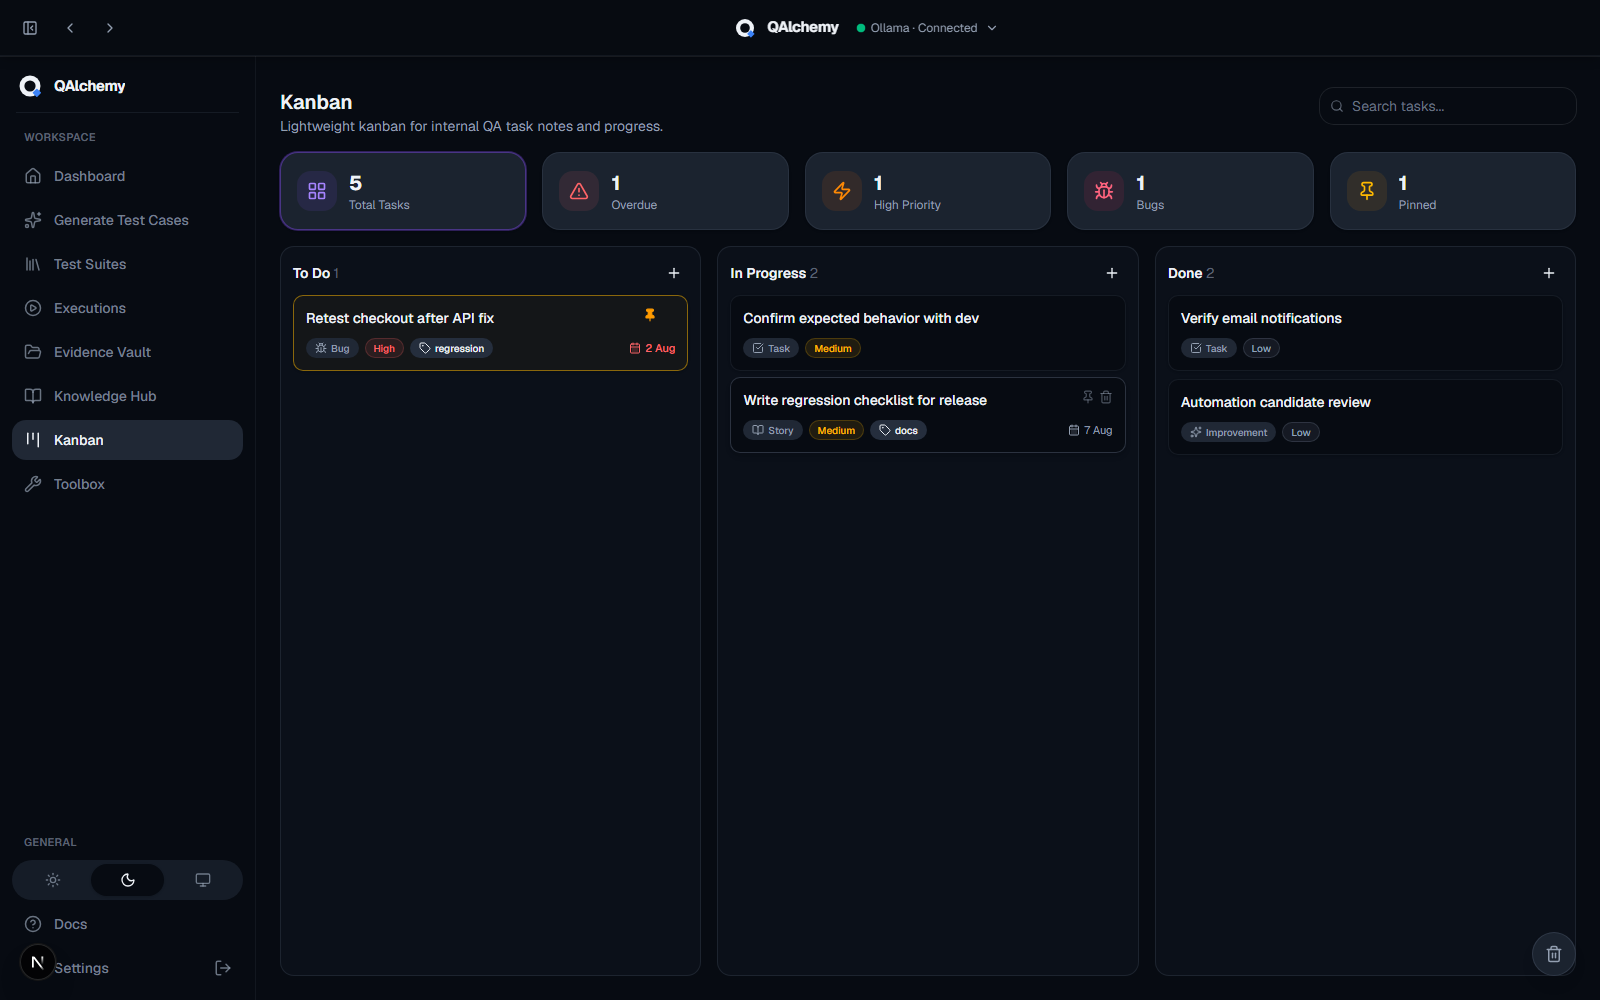
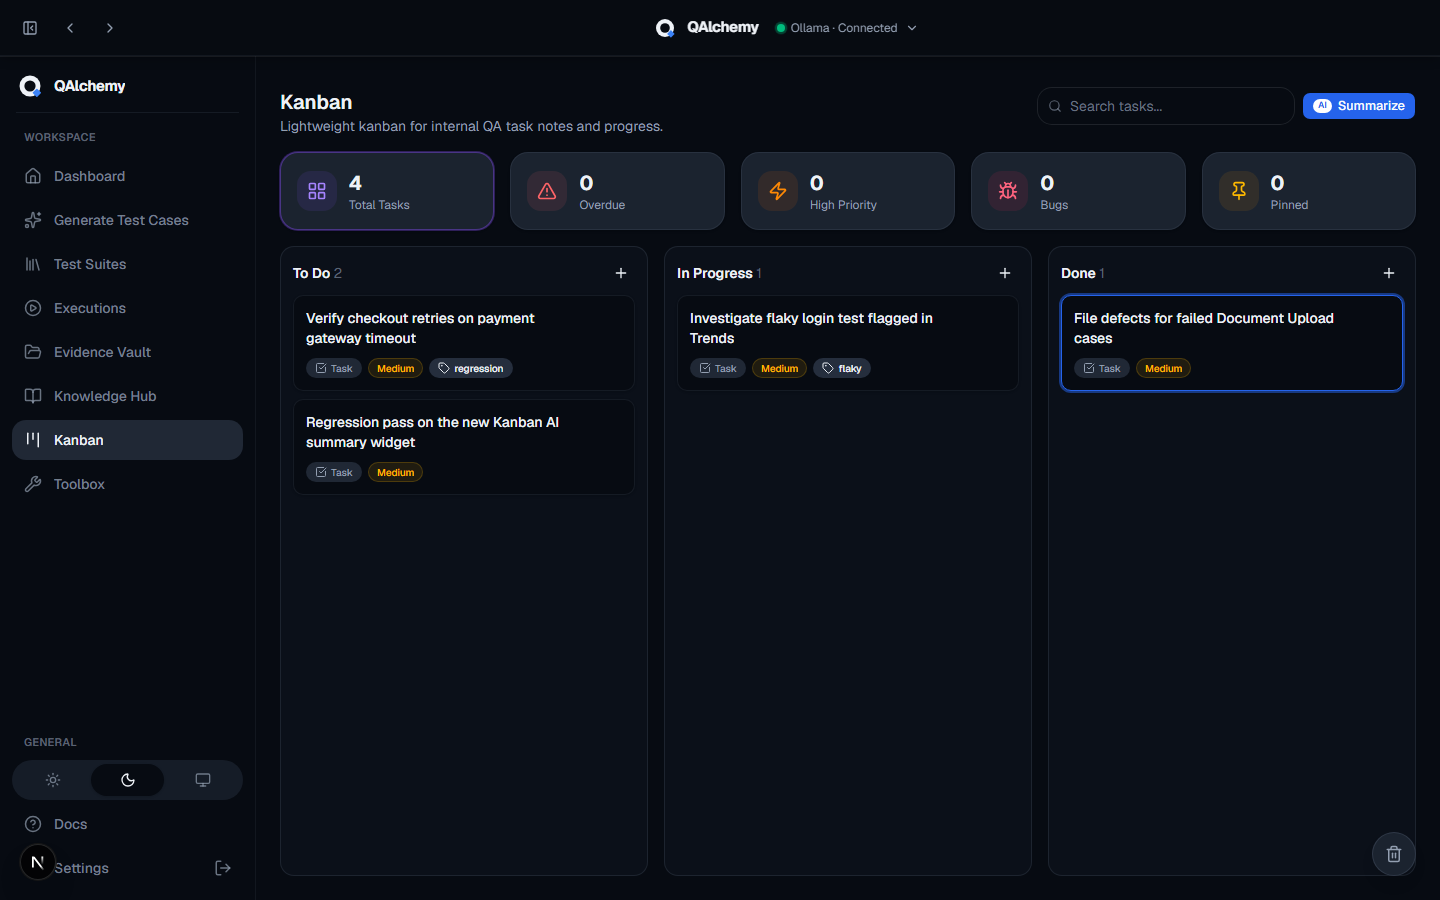
Add v1.5 features to homepage and gallery, refresh Kanban screenshot
The site hadn't been updated since v1.3 — Trends/flaky detection, the
Defects and Risk dashboards, AI-drafted bug filing, and the Alarm tool
had no homepage cards or gallery entries, and Knowledge Hub (shipped in
v1.3) was missing a homepage card despite already being in the gallery.
Also replaced the Kanban screenshot, which predated the AI summary
button and no longer matched the real UI.

diff --git a/gallery.html b/gallery.html
@@ -144,7 +144,56 @@
 
     <div class="gallery-item reveal">
       <div class="gallery-caption">
-        <span class="kicker">07 &middot; Evidence Vault</span>
+        <span class="kicker">07 &middot; File Bug Report</span>
+        <h3>File Bug Report</h3>
+        <p>File a bug straight from a failed test case, with AI drafting the report for you:</p>
+        <ul>
+          <li><svg viewBox="0 0 24 24" fill="none" stroke="currentColor" stroke-width="2.4"><path d="M5 13l4 4L19 7"/></svg> AI drafts title, repro steps, and expected/actual results from the failed test</li>
+          <li><svg viewBox="0 0 24 24" fill="none" stroke="currentColor" stroke-width="2.4"><path d="M5 13l4 4L19 7"/></svg> Files straight to Jira, Azure DevOps, GitHub, or Trello, with evidence attached</li>
+          <li><svg viewBox="0 0 24 24" fill="none" stroke="currentColor" stroke-width="2.4"><path d="M5 13l4 4L19 7"/></svg> Duplicate detection against existing tickets before you file</li>
+        </ul>
+      </div>
+      <div class="gallery-media"><img src="assets/screenshots/file-bug-report.png" alt="File Bug Report on a failed test case"></div>
+    </div>
+
+    <div class="gallery-item reverse reveal">
+      <div class="gallery-caption">
+        <span class="kicker">08 &middot; Trends &amp; Flaky Tests</span>
+        <h3>Trends &amp; Flaky Tests</h3>
+        <p>Pass rate over time and automatic flaky test detection, per suite:</p>
+        <ul>
+          <li><svg viewBox="0 0 24 24" fill="none" stroke="currentColor" stroke-width="2.4"><path d="M5 13l4 4L19 7"/></svg> Pass rate charted across every completed run</li>
+          <li><svg viewBox="0 0 24 24" fill="none" stroke="currentColor" stroke-width="2.4"><path d="M5 13l4 4L19 7"/></svg> Tests that flip between pass and fail get flagged as Flaky automatically</li>
+        </ul>
+      </div>
+      <div class="gallery-media"><img src="assets/screenshots/trends.png" alt="Trends and flaky test detection"></div>
+    </div>
+
+    <div class="gallery-item reveal">
+      <div class="gallery-caption">
+        <span class="kicker">09 &middot; Defects Dashboard</span>
+        <h3>Defects Dashboard</h3>
+        <p>Every bug filed from a failed test execution, rolled up across your whole workspace: totals, a filing trend, and breakdowns by suite and severity.</p>
+      </div>
+      <div class="gallery-media"><img src="assets/screenshots/defects.png" alt="Defects dashboard"></div>
+    </div>
+
+    <div class="gallery-item reverse reveal">
+      <div class="gallery-caption">
+        <span class="kicker">10 &middot; Risk Dashboard</span>
+        <h3>Risk Dashboard</h3>
+        <p>Test cases ranked by severity, priority, and failure history, so you know what to test first:</p>
+        <ul>
+          <li><svg viewBox="0 0 24 24" fill="none" stroke="currentColor" stroke-width="2.4"><path d="M5 13l4 4L19 7"/></svg> Risk by Feature heatmap across every module and severity</li>
+          <li><svg viewBox="0 0 24 24" fill="none" stroke="currentColor" stroke-width="2.4"><path d="M5 13l4 4L19 7"/></svg> Highest-risk test cases ranked and ready to prioritize</li>
+        </ul>
+      </div>
+      <div class="gallery-media"><img src="assets/screenshots/risk.png" alt="Risk dashboard with heatmap"></div>
+    </div>
+
+    <div class="gallery-item reveal">
+      <div class="gallery-caption">
+        <span class="kicker">11 &middot; Evidence Vault</span>
         <h3>Evidence Vault</h3>
         <p>Store and manage screenshots, recordings, and documents attached during testing, organized into cases.</p>
       </div>
@@ -153,13 +202,13 @@
 
     <div class="gallery-item reverse reveal">
       <div class="gallery-caption">
-        <span class="kicker">08 &middot; Kanban Board</span>
+        <span class="kicker">12 &middot; Kanban Board</span>
         <h3>Kanban Board</h3>
         <p>Track internal QA tasks and notes on a lightweight board, separate from your generated test suites:</p>
         <ul>
           <li><svg viewBox="0 0 24 24" fill="none" stroke="currentColor" stroke-width="2.4"><path d="M5 13l4 4L19 7"/></svg> To Do / In Progress / Done columns with drag-and-drop</li>
           <li><svg viewBox="0 0 24 24" fill="none" stroke="currentColor" stroke-width="2.4"><path d="M5 13l4 4L19 7"/></svg> Priority, free-form labels, and due dates</li>
-          <li><svg viewBox="0 0 24 24" fill="none" stroke="currentColor" stroke-width="2.4"><path d="M5 13l4 4L19 7"/></svg> Search, plus its own Recycle Bin</li>
+          <li><svg viewBox="0 0 24 24" fill="none" stroke="currentColor" stroke-width="2.4"><path d="M5 13l4 4L19 7"/></svg> One-click AI board summary, plus its own Recycle Bin</li>
         </ul>
       </div>
       <div class="gallery-media"><img src="assets/screenshots/kanban.png" alt="QAlchemy Kanban board"></div>
@@ -167,7 +216,7 @@
 
     <div class="gallery-item reveal">
       <div class="gallery-caption">
-        <span class="kicker">09 &middot; QA Toolbox</span>
+        <span class="kicker">13 &middot; QA Toolbox</span>
         <h3>QA Toolbox</h3>
         <p>A collection of offline utilities for everyday QA work, including:</p>
         <ul>
@@ -181,7 +230,16 @@
 
     <div class="gallery-item reverse reveal">
       <div class="gallery-caption">
-        <span class="kicker">10 &middot; Knowledge Hub</span>
+        <span class="kicker">14 &middot; Alarm</span>
+        <h3>Alarm</h3>
+        <p>Set a time, get a loud alert and an on-screen banner no matter which page you're on, so timeboxed QA work and standups don't slip.</p>
+      </div>
+      <div class="gallery-media"><img src="assets/screenshots/alarm.png" alt="Alarm tool"></div>
+    </div>
+
+    <div class="gallery-item reveal">
+      <div class="gallery-caption">
+        <span class="kicker">15 &middot; Knowledge Hub</span>
         <h3>Knowledge Hub</h3>
         <p>A searchable knowledge base for everything that isn't a test case, in a single navigation tree next to a full Markdown editor:</p>
         <ul>

diff --git a/index.html b/index.html
@@ -234,12 +234,32 @@
         <div class="feature-card">
           <div class="feature-icon"><svg viewBox="0 0 24 24" fill="none" stroke="currentColor" stroke-width="1.8"><rect x="4" y="4" width="7" height="7" rx="1.5"/><rect x="13" y="4" width="7" height="7" rx="1.5"/><rect x="4" y="13" width="7" height="7" rx="1.5"/></svg></div>
           <h3>Kanban Task Board</h3>
-          <p>Track internal QA tasks and notes on a lightweight board, separate from your generated suites.</p>
+          <p>Track internal QA tasks and notes on a lightweight board, with a one-click AI summary of the whole board.</p>
         </div>
         <div class="feature-card">
           <div class="feature-icon"><svg viewBox="0 0 24 24" fill="none" stroke="currentColor" stroke-width="1.8"><path d="M3 6h18M8 6V4a1 1 0 011-1h6a1 1 0 011 1v2m2 0v14a1 1 0 01-1 1H7a1 1 0 01-1-1V6"/></svg></div>
           <h3>Recycle Bin</h3>
           <p>Deleted a test suite or task by mistake? Restore it from the Recycle Bin within 30 days.</p>
+        </div>
+        <div class="feature-card">
+          <div class="feature-icon"><svg viewBox="0 0 24 24" fill="none" stroke="currentColor" stroke-width="1.8"><path d="M4 19.5A2.5 2.5 0 016.5 17H20"/><path d="M6.5 2H20v20H6.5A2.5 2.5 0 014 19.5v-15A2.5 2.5 0 016.5 2z"/></svg></div>
+          <h3>Knowledge Hub</h3>
+          <p>A searchable knowledge base for everything that isn't a test case, with a full Markdown editor and 14 built-in templates.</p>
+        </div>
+        <div class="feature-card">
+          <div class="feature-icon"><svg viewBox="0 0 24 24" fill="none" stroke="currentColor" stroke-width="1.8"><path d="M3 17l5-5 4 4 8-8"/><path d="M14 8h6v6"/></svg></div>
+          <h3>Trends &amp; Flaky Detection</h3>
+          <p>Pass rate over time per suite, with tests that flip between pass and fail flagged as flaky automatically.</p>
+        </div>
+        <div class="feature-card">
+          <div class="feature-icon"><svg viewBox="0 0 24 24" fill="none" stroke="currentColor" stroke-width="1.8"><rect x="3" y="3" width="7" height="7" rx="1"/><rect x="14" y="3" width="7" height="7" rx="1"/><rect x="3" y="14" width="7" height="7" rx="1"/><rect x="14" y="14" width="7" height="7" rx="1"/></svg></div>
+          <h3>Defects &amp; Risk Dashboards</h3>
+          <p>Every filed defect rolled up across suites, plus a risk heatmap ranking test cases by severity, priority, and failure history.</p>
+        </div>
+        <div class="feature-card">
+          <div class="feature-icon"><svg viewBox="0 0 24 24" fill="none" stroke="currentColor" stroke-width="1.8"><path d="M12 20h9M16.5 3.5a2.1 2.1 0 013 3L7 19l-4 1 1-4z"/></svg></div>
+          <h3>AI Bug Filing</h3>
+          <p>File a bug from a failed test case with AI drafting the report, straight to Jira, Azure DevOps, GitHub, or Trello.</p>
         </div>
       </div>
     </div>
